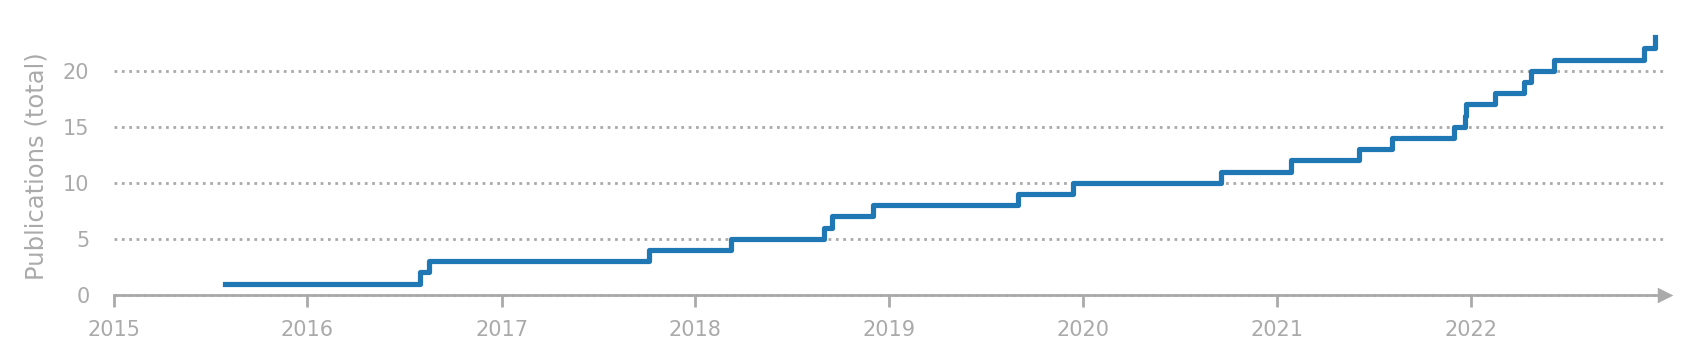
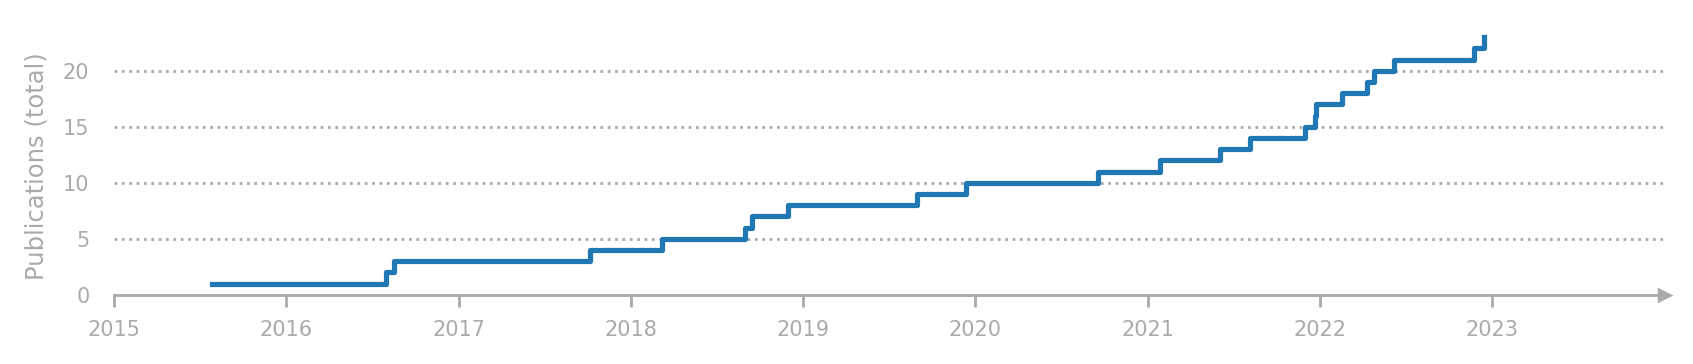
Pub plot includes 2023

diff --git a/doc/scripts/make_uranos_pubs.py b/doc/scripts/make_uranos_pubs.py
@@ -133,7 +133,7 @@ with Figure(size=(8,1.5),
     ax.plot(plotdata.t, plotdata.num, color=color_data, drawstyle='steps-post')
     ax.set_xlim(
         date( plotdata.t[len(plotdata)-1].year, 1, 1),
-        date( plotdata.t[0].year,              12,31))
+        date( plotdata.t[0].year+1,            12,31))
     ax.set_yticks(np.arange(0,len(plotdata),5))
     ax.xaxis.set_tick_params(labelsize=6)
     ax.yaxis.set_tick_params(labelsize=6)
